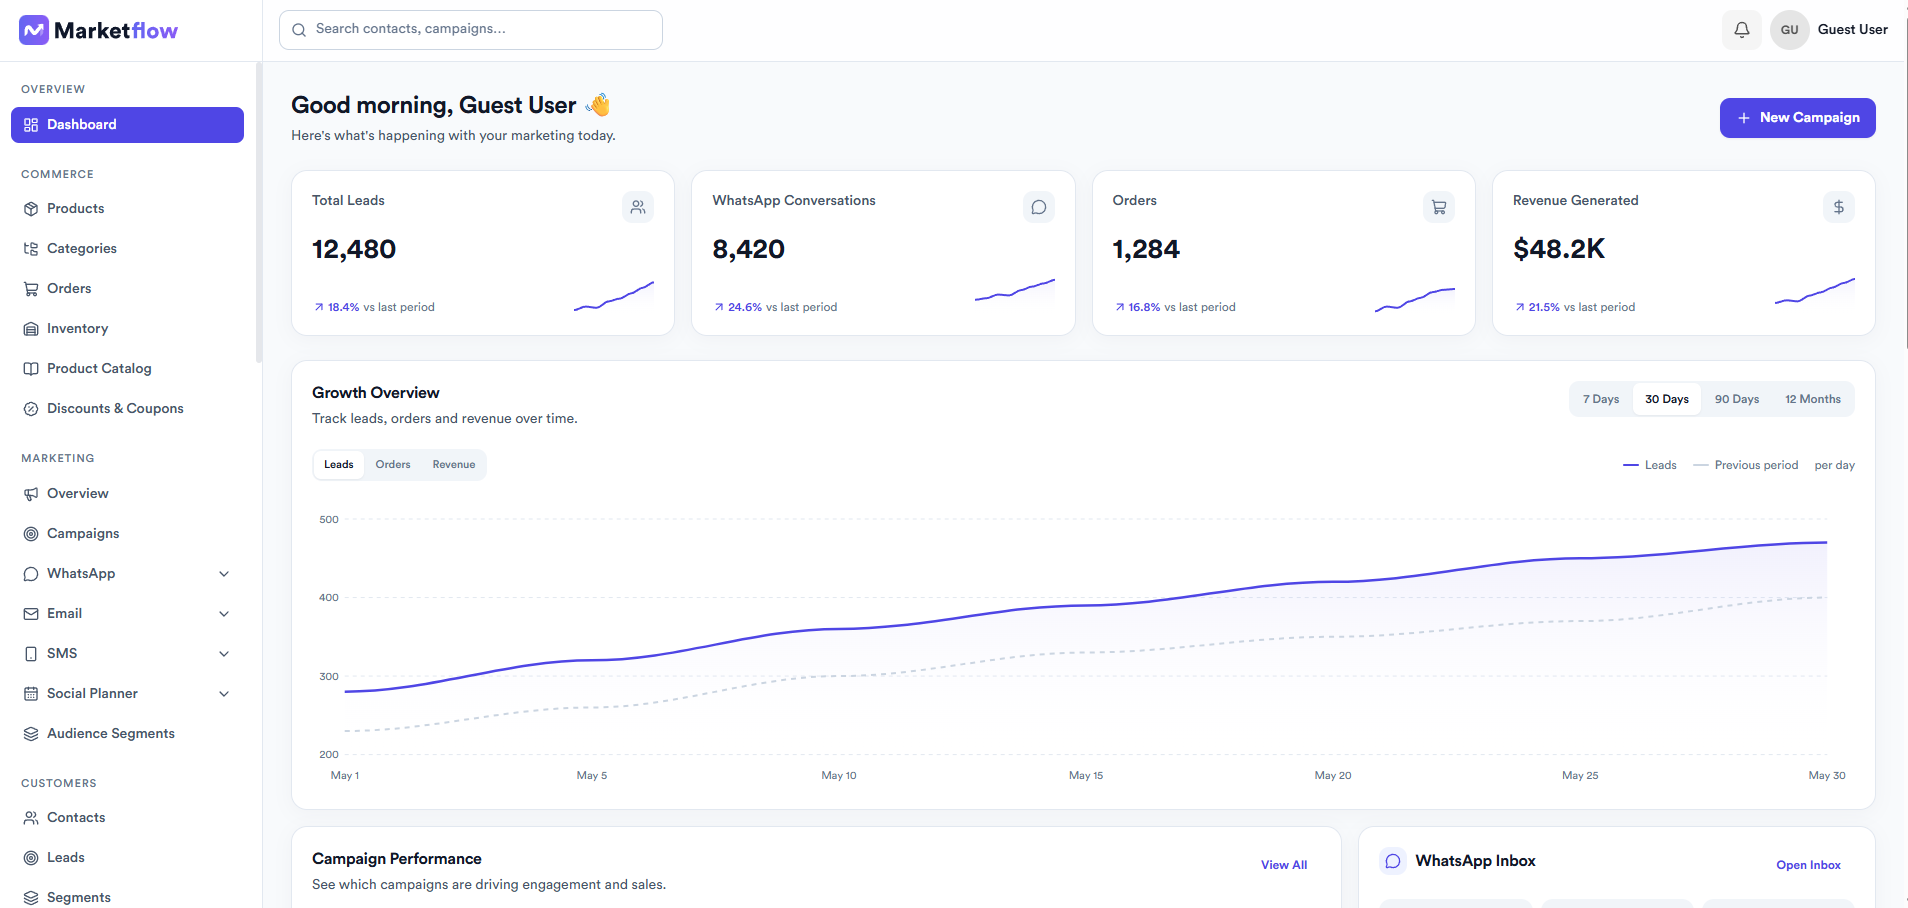
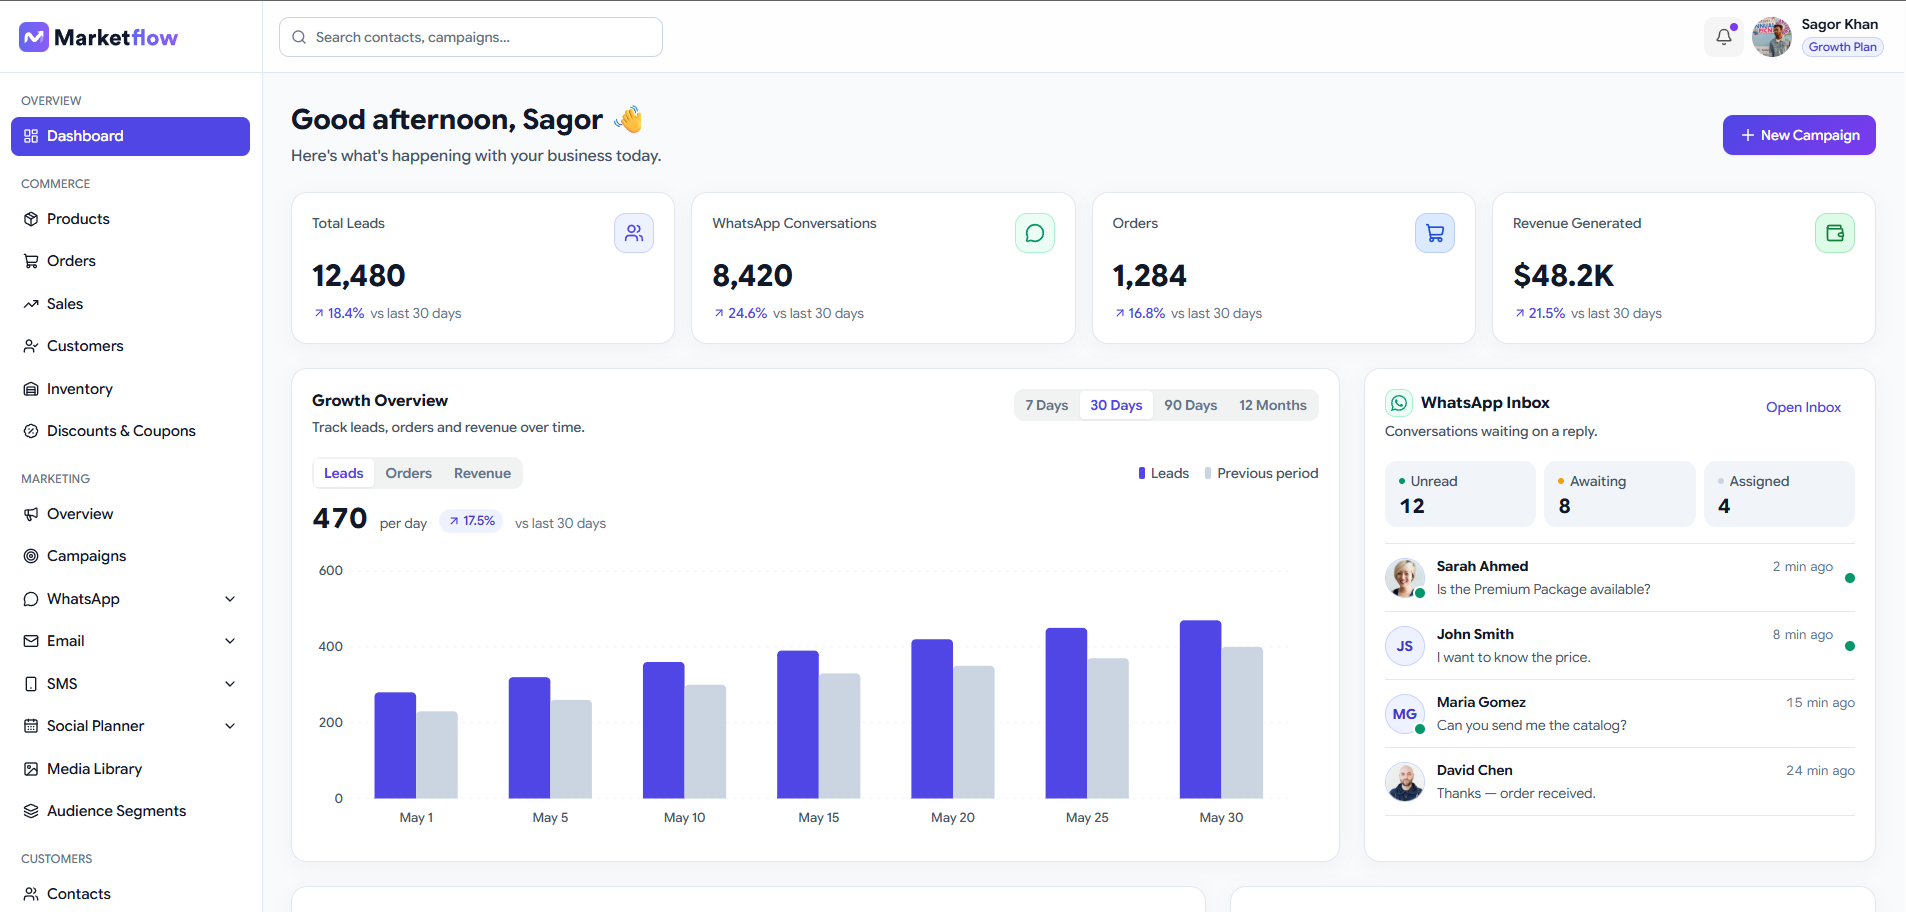
Refactor code structure for improved readability and maintainability

diff --git a/src/components/marketing/contact-info.tsx b/src/components/marketing/contact-info.tsx
@@ -76,8 +76,8 @@ export function ContactInfo() {
               key={channel.title}
               className="flex min-h-67.5 flex-col items-center justify-center rounded-card border border-primary-border/50 bg-primary-soft px-8 py-10 text-center"
             >
-              <span className="mb-5 grid size-22 place-items-center rounded-full brand-gradient shadow-[0_10px_30px_rgba(79,70,229,0.25)]">
-                <channel.icon className="size-10 text-white" strokeWidth={1.8} aria-hidden />
+              <span className="mb-5 grid size-20 place-items-center rounded-full brand-gradient shadow-[0_10px_30px_rgba(79,70,229,0.25)]">
+                <channel.icon className="size-8 text-white" strokeWidth={1.8} aria-hidden />
               </span>
 
               <h3 className="mb-3 text-xl font-semibold text-text-primary">
